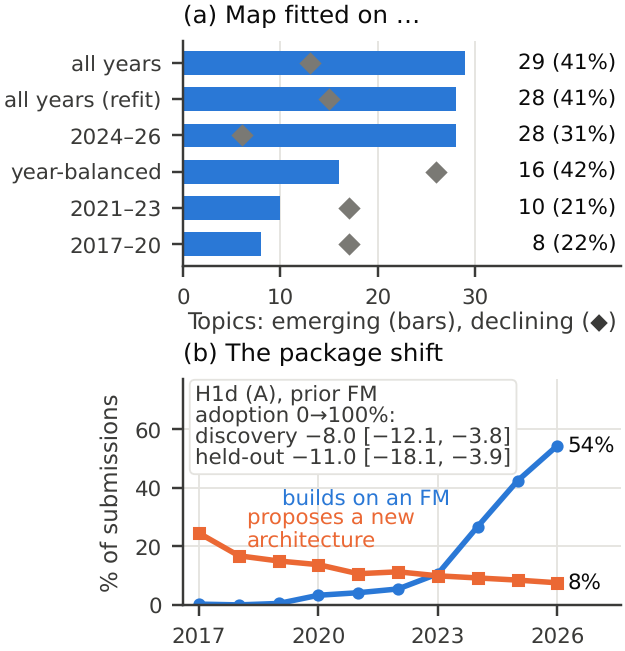
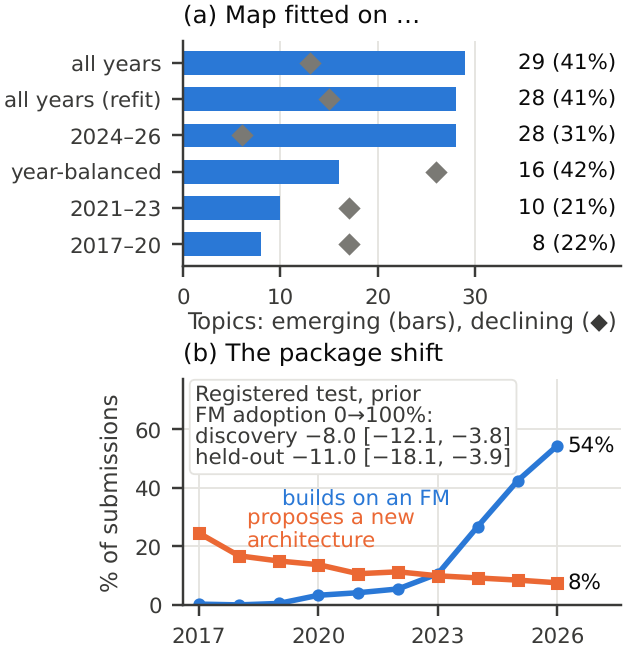
Fig. 2 inset without internal code; RESULTS profile CIs from the exact CSV values
Claude-Session: https://claude.ai/code/session_014Gxddxw4AapynGRQeyNs87

Changed region(s): [[0.304, 0.5837, 0.6992, 0.6759]]

diff --git a/research/fashion/paper/make_figures.py b/research/fashion/paper/make_figures.py
@@ -142,7 +142,7 @@ def field() -> None:
     b.text(2026.25, by.fm.iloc[-1], f"{by.fm.iloc[-1]:.0f}%", fontsize=FT, va="center", color=INK)
     b.text(2026.25, by.arch.iloc[-1], f"{by.arch.iloc[-1]:.0f}%", fontsize=FT, va="center", color=INK)
     lo, hi = 100 * (rq1.coef - 1.96 * rq1.se), 100 * (rq1.coef + 1.96 * rq1.se)
-    b.text(2016.9, 75, "H1d (A), prior FM\nadoption 0→100%:\n"
+    b.text(2016.9, 75, "Registered test, prior\nFM adoption 0→100%:\n"
            f"discovery {n(100 * rq1.coef)} [{n(lo)}, {n(hi)}]\n"
            f"held-out {n(100 * held.coef)} [{n(100 * held.ci95_lo)}, {n(100 * held.ci95_hi)}]",
            fontsize=FT, color=INK2, va="top", ha="left", linespacing=1.05,

diff --git a/research/fashion/RESULTS.md b/research/fashion/RESULTS.md
@@ -1050,13 +1050,13 @@ reproduces H2b/H2c (+3.71 / −1.70).
 
 | Contrast (pp) | Method | Method, + log2 team | Measurement | Measurement, + log2 team |
 |---|---|---|---|---|
-| returning topic newcomer − incumbent | +3.43 [+2.31, +4.55] | +3.62 [+2.44, +4.79] | −1.47 [−2.23, −0.70] | −0.81 [−1.47, −0.16] |
+| returning topic newcomer − incumbent | +3.43 [+2.31, +4.55] | +3.62 [+2.44, +4.79] | −1.47 [−2.23, −0.70] | −0.81 [−1.46, −0.16] |
 | first-time team − returning topic newcomer | +0.92 [−0.44, +2.29] | +1.40 [−0.15, +2.95] | −0.78 [−1.51, −0.05] | +0.90 [+0.15, +1.65] |
-| first-time team − incumbent | +4.35 [+2.82, +5.89] | +5.02 [+3.12, +6.92] | −2.24 [−3.24, −1.25] | +0.09 [−0.63, +0.81] |
+| first-time team − incumbent | +4.35 [+2.82, +5.89] | +5.02 [+3.12, +6.91] | −2.24 [−3.24, −1.25] | +0.09 [−0.63, +0.80] |
 
 - **Method.** The surplus is a topic-entry pattern: researchers who already have ICLR work elsewhere write it as much
   as first-time teams, at the same median team size as incumbents, and it holds with team size.
-- **Measurement.** For first-time teams the deficit is team size (+0.09 with it); for returning topic newcomers part of
+- **Measurement.** For first-time teams the deficit is accounted for by team size (+0.09 with it); for returning topic newcomers part of
   it remains (−0.81).
 - **By era** (no team control). Method, returning − incumbent: +4.43 (2019–20), +2.28 (2021–23), +3.61 (2024–26);
   first-time − incumbent +6.61, +5.00, +3.74. Measurement, first-time − incumbent: −0.70, −0.71 (both n.s.), −2.75
